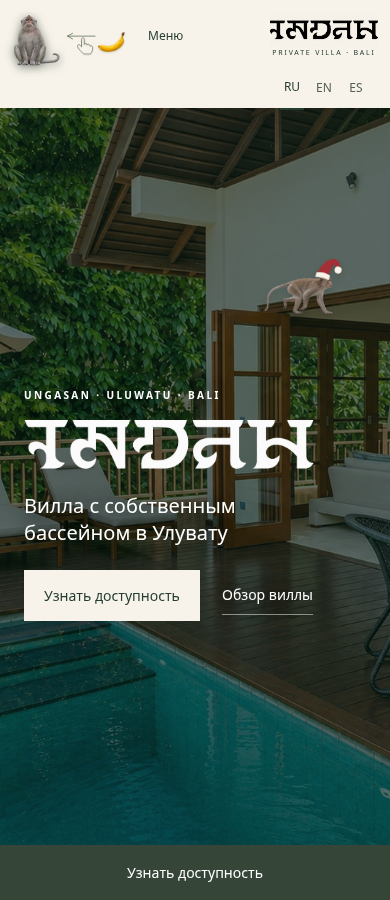
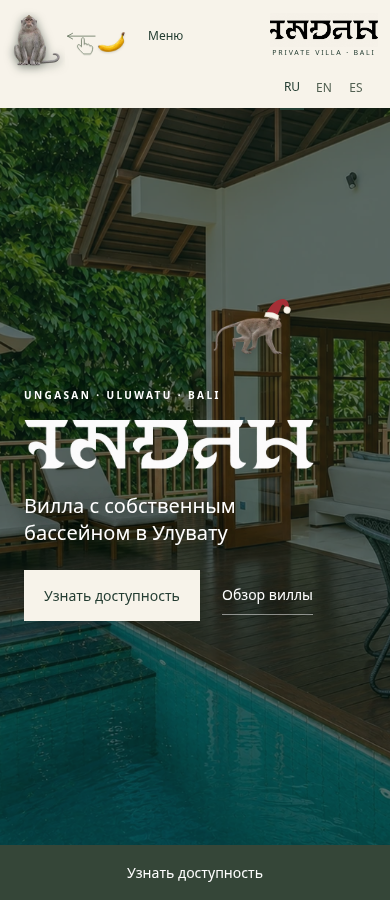
Speed up festive monkey and refine seasonal copy placement

Changed region(s): [[0.5538, 0.28, 0.8923, 0.4044]]

diff --git a/index.html b/index.html
@@ -1,4 +1,4 @@
-<!doctype html><html lang="ru"><head><meta charset="utf-8"><meta name="viewport" content="width=device-width,initial-scale=1"><link rel="canonical" href="https://villa-indah.com/"><meta property="og:url" content="https://villa-indah.com/"><meta property="og:title" content="Private Villa Indah · Bali"><meta property="og:description" content="A private four-bedroom villa in Uluwatu, Bali."><meta property="og:image" content="https://villa-indah.com/assets/photos-new/Private%20Swimming%20Pool/03.webp"><meta http-equiv="Content-Security-Policy" content="default-src 'self'; script-src 'self' https://www.googletagmanager.com; style-src 'self' 'unsafe-inline'; img-src 'self' data: https://www.google-analytics.com https://region1.google-analytics.com; font-src 'self'; frame-src https://maps.google.com https://www.google.com; connect-src 'self' https://formspree.io https://www.google-analytics.com https://region1.google-analytics.com; object-src 'none'; base-uri 'self'; form-action 'none'"><meta name="referrer" content="strict-origin-when-cross-origin"><meta name="theme-color" content="#17382d"><meta name="description" content="Private Villa Indah — приватная вилла с четырьмя спальнями и собственным бассейном в Улувату, Бали."><title>Private Villa Indah · Bali</title><link rel="icon" href="assets/indah-icon.svg" type="image/svg+xml"><link rel="stylesheet" href="style.css?v=24"></head><body><a class="skip-link" href="#main-content" data-i="skipContent">Перейти к содержимому</a>
+<!doctype html><html lang="ru"><head><meta charset="utf-8"><meta name="viewport" content="width=device-width,initial-scale=1"><link rel="canonical" href="https://villa-indah.com/"><meta property="og:url" content="https://villa-indah.com/"><meta property="og:title" content="Private Villa Indah · Bali"><meta property="og:description" content="A private four-bedroom villa in Uluwatu, Bali."><meta property="og:image" content="https://villa-indah.com/assets/photos-new/Private%20Swimming%20Pool/03.webp"><meta http-equiv="Content-Security-Policy" content="default-src 'self'; script-src 'self' https://www.googletagmanager.com; style-src 'self' 'unsafe-inline'; img-src 'self' data: https://www.google-analytics.com https://region1.google-analytics.com; font-src 'self'; frame-src https://maps.google.com https://www.google.com; connect-src 'self' https://formspree.io https://www.google-analytics.com https://region1.google-analytics.com; object-src 'none'; base-uri 'self'; form-action 'none'"><meta name="referrer" content="strict-origin-when-cross-origin"><meta name="theme-color" content="#17382d"><meta name="description" content="Private Villa Indah — приватная вилла с четырьмя спальнями и собственным бассейном в Улувату, Бали."><title>Private Villa Indah · Bali</title><link rel="icon" href="assets/indah-icon.svg" type="image/svg+xml"><link rel="stylesheet" href="style.css?v=25"></head><body><a class="skip-link" href="#main-content" data-i="skipContent">Перейти к содержимому</a>
 <header id="site-header"><button id="menu-toggle" aria-expanded="false" aria-controls="main-nav" data-i="menu">Меню</button><a class="brand" href="#home" aria-label="Indah — home"><span class="brand-mark"><img src="6B720228-7AA6-4556-BAA2-3178FDD9169D.png" width="2172" height="724" alt="Indah"></span><span class="brand-tagline">PRIVATE VILLA · BALI</span></a><nav id="main-nav"><a href="#villa" data-i="navVilla">Вилла</a><a href="#resort" data-i="navResort">Отдых</a><a href="#gallery-section" data-i="navGallery">Галерея</a><a href="#villa-map" data-i="navLocation">Расположение</a></nav><div class="languages" aria-label="Language"><button data-lang="ru" aria-pressed="true">RU</button><button data-lang="en" aria-pressed="false">EN</button><button data-lang="es" aria-pressed="false">ES</button></div><button class="outline booking" data-i="availability">Узнать доступность</button></header>
 <main id="main-content" tabindex="-1"><section class="hero" id="home"><img class="hero-photo" src="assets/photos-new/Private%20Swimming%20Pool/03.webp" width="1448" height="1086" alt="Терраса виллы Indah с бассейном и открытой гостиной" data-alt="altHero" fetchpriority="high"><video id="hero-video" muted loop playsinline hidden poster="assets/photos-new/Private%20Swimming%20Pool/03.webp"></video><button id="video-toggle" hidden></button><button id="monkey-toggle" class="branch-monkey resident-monkey" aria-pressed="false" aria-label="Позвать обезьян"><img src="assets/monkeys/generated/P01-still.png" width="125" height="150" alt="" draggable="false"><span id="monkey-label" hidden></span></button><button id="monkey-banana" type="button" aria-label="Выберите банан, затем нажмите на обезьяну" aria-pressed="false"><img class="banana-fruit" src="assets/banana-realistic.webp" width="160" height="107" alt="" draggable="false"></button><span id="banana-gesture" aria-hidden="true"><svg viewBox="0 0 64 42"><path class="swipe-arrow" d="M57 7H8m9-5-9 5 9 5"/><path class="swipe-hand" d="M30 36c-4-4-7-7-8-10-1-3 2-5 4-3l3 3V13c0-4 5-4 5 0v9c1-3 5-2 5 1 1-3 5-1 5 2 2-2 5 0 5 3 0 5-2 8-4 11H33Z"/></svg></span><span id="monkey-instruction" class="sr-only" role="status"></span><div class="hero-content"><p class="eyebrow">UNGASAN · ULUWATU · BALI</p><h1 class="hero-logo"><img src="assets/indah-logo-white.png" width="2171" height="724" alt="Indah" fetchpriority="high"></h1><p class="hero-sub" data-i="hero">Вилла с собственным бассейном в Улувату</p><div class="hero-actions"><button class="solid hero-cta booking" data-i="availability">Узнать доступность</button><a class="discover" href="#villa"><span data-i="discover">Обзор виллы</span></a></div></div></section>
 <section class="intro" id="villa"><h2 data-i="introTitle">Дом для отдыха с близкими</h2><p class="intro-copy" data-i="intro">Вилла целиком в вашем распоряжении: четыре спальни, гостиная, балкон и терраса у собственного бассейна.</p><div class="facts"><div><strong>4</strong><span data-i="bedrooms">Спальни</span></div><div><strong>8</strong><span data-i="guests">Гостей</span></div><div><strong>4</strong><span data-i="baths">Ванные комнаты</span></div><div><strong>Pool</strong><span data-i="pool">Собственный бассейн</span></div></div></section>
@@ -10,4 +10,4 @@
 
 <section class="faq" id="faq" aria-labelledby="faq-heading"><div class="faq-layout"><div class="faq-intro"><p class="eyebrow" data-i="faqEyebrow">ПЕРЕД ПОЕЗДКОЙ</p><h2 id="faq-heading" data-i="faqTitle">Частые вопросы</h2><p data-i="faqDescription">О вилле, услугах курорта и условиях бронирования.</p></div><div class="faq-content"><div id="faq-entries"><section class="faq-group" aria-labelledby="faq-group-villa"><h3 id="faq-group-villa">Вилла</h3><details name="villa-faq"><summary>Villa Indah — отдельная вилла или часть отеля?</summary><p>Villa Indah — отдельная вилла на территории курорта Karma Kandara. Вы проживаете в собственном доме с бассейном и имеете доступ к общим зонам курорта.</p></details><details name="villa-faq"><summary>Есть ли Wi-Fi для удалённой работы?</summary><p>На вилле есть Wi-Fi.</p></details><details name="villa-faq"><summary>У виллы есть собственный бассейн?</summary><p>Да, бассейн виллы предназначен только для проживающих в ней гостей. Бассейн курорта Karma Kandara — отдельный общий объект.</p></details></section><section class="faq-group" aria-labelledby="faq-group-resort"><h3 id="faq-group-resort">Курорт и пляж</h3><details name="villa-faq"><summary>Включён ли доступ к пляжу?</summary><p>Доступ к пляжу входит в условия проживания. Еда, напитки и отдельные услуги пляжного клуба оплачиваются дополнительно.</p></details><details name="villa-faq"><summary>Как спуститься к Karma Beach?</summary><p>Пляж расположен у подножия утёса. Порядок спуска организует курорт: лифт или лестница. Маршрут может меняться из-за эксплуатационных или погодных условий.</p></details><details name="villa-faq"><summary>Включены ли рестораны и спа в проживание?</summary><p>Рестораны, напитки, спа-процедуры и другие дополнительные услуги оплачиваются отдельно.</p></details></section><section class="faq-group" aria-labelledby="faq-group-stay"><h3 id="faq-group-stay">Услуги и заезд</h3><details name="villa-faq"><summary>Включены ли уборка и смена белья?</summary><p>В стоимость проживания включена ежедневная уборка виллы.</p></details><details name="villa-faq"><summary>Можно ли заказать завтрак?</summary><p>Завтрак можно заказать из ресторана за дополнительную стоимость.</p></details><details name="villa-faq"><summary>Можно ли заказать трансфер из аэропорта?</summary><p>Трансфер из/в аэропорт можно заказать за дополнительную стоимость. Заранее согласуйте доступность, стоимость, место встречи и количество пассажиров. Детали рейса потребуются при оформлении поездки.</p></details></section><section class="faq-group" aria-labelledby="faq-group-booking"><h3 id="faq-group-booking">Бронирование и оплата</h3><details name="villa-faq"><summary>Как узнать доступность и забронировать виллу?</summary><p>Заполните форму или напишите по email в разделе «Контакты»: укажите даты поездки и количество гостей. Доступность, стоимость и условия согласуются в переписке. Проживание подтверждается ваучером отеля; запрос сам по себе не является бронированием.</p></details><details name="villa-faq"><summary>Нужна ли предоплата и как оплатить проживание?</summary><p>Для подтверждения бронирования требуется полная оплата стоимости проживания — 100%. Порядок оплаты и реквизиты направляются в письменном подтверждении.</p></details></section></div><span class="faq-expand-perch" id="faq-expand-perch"><button type="button" class="outline-dark" id="faq-expand" aria-controls="faq-entries" aria-expanded="false" hidden data-i="faqAll">Все 11 вопросов</button></span><div class="faq-contact"><h3 data-i="faqOtherTitle">Остались вопросы?</h3><p data-i="faqOtherCopy">Напишите нам, чтобы уточнить условия и доступность на ваши даты.</p><div class="faq-actions"><button type="button" class="solid booking" data-i="availability">Узнать доступность</button><a class="text-link" href="#enquiry" data-i="faqContact">Перейти к контактам</a></div></div></div></div></section>
 <section class="contact" id="enquiry"><p class="eyebrow">PRIVATE VILLA INDAH</p><h2 data-i="contactTitle">Планируете поездку?</h2><p data-i="confirmPersonally">Сообщите даты и состав компании. Мы уточним доступность виллы и условия проживания.</p><form class="perch-object" id="enquiry-form" novalidate><input class="form-honeypot" name="_gotcha" tabindex="-1" autocomplete="off" aria-hidden="true"><div class="form-grid"><label><span data-i="nameLabel">Имя</span><input name="name" autocomplete="name" required aria-describedby="form-error"></label><label><span>Email</span><input type="email" name="email" autocomplete="email" required aria-describedby="form-error"></label><div class="phone-field"><label for="guest-phone"><span data-i="phoneLabel">Телефон с кодом страны</span></label><span class="phone-controls"><select id="phone-country" autocomplete="off" aria-label="Код страны"></select><input id="guest-phone" type="tel" name="phone" autocomplete="tel-national" inputmode="tel" placeholder="812 3456 789" aria-describedby="phone-help form-error"></span><small id="phone-help" data-i="phoneHelp">Номер без кода страны или полный номер с +.</small></div><label><span data-i="checkin">Заезд</span><input type="date" name="checkin" required aria-describedby="form-error"></label><label><span data-i="checkout">Выезд</span><input type="date" name="checkout" required aria-describedby="form-error"></label><label><span data-i="adults">Взрослые</span><input type="number" name="adults" value="2" min="1" max="8" required aria-describedby="form-error"></label><label><span data-i="children">Дети</span><input type="number" name="children" value="0" min="0" max="7" required aria-describedby="form-error"></label></div><label class="note-label"><span data-i="message">Пожелания (необязательно)</span><textarea name="message" rows="3" maxlength="2000"></textarea></label><p class="data-note" data-i="dataMinimisation">Укажите только данные взрослого заявителя. Не присылайте имена детей, документы и платёжные данные.</p><label class="consent-label"><input type="checkbox" name="privacyConsent" value="yes" required><span data-i="privacyConsent">Я согласен(на) на обработку указанных данных для ответа на заявку.</span></label><button type="button" class="policy-link" data-policy="privacy" data-i="privacyTitle">Защита данных</button><p id="form-error" role="alert"></p><p id="form-status" role="status"></p><div class="contact-actions"><button id="enquiry-submit" class="solid" type="submit" data-i="sendEnquiry">Отправить заявку</button><a class="outline-dark telegram-action" id="telegram-action" href="https://t.me/VillaIndah_bali" target="_blank" rel="noopener noreferrer"><svg viewBox="0 0 24 24" aria-hidden="true"><path fill="currentColor" d="M21.4 3.2 2.9 10.4c-1.3.5-1.3 1.2-.2 1.5l4.7 1.5 1.8 5.5c.2.6.1.9.8.9.5 0 .8-.2 1-.5l2.3-2.3 4.7 3.5c.9.5 1.5.2 1.7-.8l3-14.5c.3-1.3-.5-1.9-1.3-1.5ZM9.2 13l9.2-5.8c.4-.3.8-.1.5.2l-7.6 6.9-.3 3.3-1.8-4.6Z"/></svg><span data-i="telegramAction">Написать в Telegram</span></a></div><p class="small" id="form-config-note" data-i="formPending">Онлайн-заявка скоро появится. Пока свяжитесь с нами по email ниже.</p><p class="small" data-i="privacySummary">Запрос не подтверждает бронирование.</p><div class="direct-contact"><h3 data-i="contactLabel">Контакты</h3><a class="email" href="mailto:villaindah.valeriia@gmail.com">villaindah.valeriia@gmail.com</a></div></form></section><section id="villa-map" class="map-section"><h2 data-i="mapHeading">Найти виллу</h2><div class="perch-object" id="map-container"><div class="map-placeholder"><p data-i="mapConsentCopy">Google получит данные о подключении при загрузке карты. Вы можете открыть маршрут по ссылке или разрешить карту здесь.</p><button type="button" class="solid" id="enable-map" data-i="enableMap">Разрешить Google Maps</button></div></div><p class="map-help" data-i="mapHelp">Если карта не отображается, откройте маршрут в Google Maps по кнопке ниже.</p><a id="map-directions" class="outline-dark" target="_blank" rel="noopener noreferrer" hidden data-i="mapRoute">Открыть в Google Maps</a><p id="map-pending" data-i="mapPending">Точную метку виллы добавим после подтверждения местоположения.</p></section></main>
-<footer><div class="footer-location"><p class="hotel-note" data-i="hotelNote">Вилла расположена на территории отеля Karma Kandara.</p><address data-i="villaAddress">Jl. Villa Kandara Banjar Wijaya Kusuma Ungasan Benoa Kuta Sel. Banjar Wijaya Kusuma, Ungasan, Kec. Kuta Sel., Kabupaten Badung, Bali 80362, Индонезия</address></div><a class="brand" href="#home" aria-label="Indah — home"><span class="brand-mark"><img src="6B720228-7AA6-4556-BAA2-3178FDD9169D.png" width="2172" height="724" alt="Indah"></span><span class="brand-tagline">PRIVATE VILLA · BALI</span></a><p>Ungasan · Uluwatu · Bali</p><p>© <span id="year"></span> Private Villa Indah</p><div class="legal-links"><a href="#faq" data-i="faqNav">Вопросы</a><button data-policy="privacy" data-i="privacyTitle">Защита данных</button><button data-policy="terms" data-i="termsTitle">Условия и возвраты</button><button data-policy="cookies" data-i="cookiesTitle">Cookies</button><button id="privacy-settings" data-i="privacySettings">Настройки приватности</button></div></footer><aside id="cookie-banner" aria-labelledby="cookie-title"><h2 id="cookie-title" data-i="cookiesTitle">Cookies и приватность</h2><p data-i="cookieNotice">Вы можете разрешить или отклонить аналитику посещений. Google-карта включается отдельно. Отказ не мешает отправить заявку или связаться с нами.</p><div class="cookie-actions"><button id="accept-analytics" data-i="acceptAnalytics">Принять аналитику</button><button id="reject-analytics" data-i="rejectAnalytics">Отклонить аналитику</button><button id="banner-privacy-settings" data-i="privacySettings">Изменить настройки</button></div></aside><dialog id="policy-dialog" aria-labelledby="policy-title"><button id="policy-close" type="button" aria-label="Закрыть">×</button><h2 id="policy-title"></h2><div id="policy-body"></div></dialog><div id="monkey" aria-hidden="true" hidden></div><a class="mobile-availability" href="#enquiry" data-i="availability">Узнать доступность</a><dialog id="lightbox" aria-labelledby="lightbox-caption"><button id="lightbox-close" aria-label="Close">×</button><button id="lightbox-prev" aria-label="Previous photograph">←</button><figure><img id="lightbox-image" alt=""><figcaption id="lightbox-caption"></figcaption></figure><button id="lightbox-next" aria-label="Next photograph">→</button><p id="lightbox-counter" aria-live="polite"></p></dialog><noscript><p class="no-js">Для галереи и формы включите JavaScript.</p></noscript><script src="content.js?v=22"></script><script src="monkeys.js?v=23"></script><script src="analytics.js?v=1"></script><script src="privacy.js?v=18"></script><script src="faq-content.js?v=4"></script><script src="phone-countries.js?v=1"></script><script src="app.js?v=21"></script><script src="seasonal-offer.js?v=1"></script></body></html>
+<footer><div class="footer-location"><p class="hotel-note" data-i="hotelNote">Вилла расположена на территории отеля Karma Kandara.</p><address data-i="villaAddress">Jl. Villa Kandara Banjar Wijaya Kusuma Ungasan Benoa Kuta Sel. Banjar Wijaya Kusuma, Ungasan, Kec. Kuta Sel., Kabupaten Badung, Bali 80362, Индонезия</address></div><a class="brand" href="#home" aria-label="Indah — home"><span class="brand-mark"><img src="6B720228-7AA6-4556-BAA2-3178FDD9169D.png" width="2172" height="724" alt="Indah"></span><span class="brand-tagline">PRIVATE VILLA · BALI</span></a><p>Ungasan · Uluwatu · Bali</p><p>© <span id="year"></span> Private Villa Indah</p><div class="legal-links"><a href="#faq" data-i="faqNav">Вопросы</a><button data-policy="privacy" data-i="privacyTitle">Защита данных</button><button data-policy="terms" data-i="termsTitle">Условия и возвраты</button><button data-policy="cookies" data-i="cookiesTitle">Cookies</button><button id="privacy-settings" data-i="privacySettings">Настройки приватности</button></div></footer><aside id="cookie-banner" aria-labelledby="cookie-title"><h2 id="cookie-title" data-i="cookiesTitle">Cookies и приватность</h2><p data-i="cookieNotice">Вы можете разрешить или отклонить аналитику посещений. Google-карта включается отдельно. Отказ не мешает отправить заявку или связаться с нами.</p><div class="cookie-actions"><button id="accept-analytics" data-i="acceptAnalytics">Принять аналитику</button><button id="reject-analytics" data-i="rejectAnalytics">Отклонить аналитику</button><button id="banner-privacy-settings" data-i="privacySettings">Изменить настройки</button></div></aside><dialog id="policy-dialog" aria-labelledby="policy-title"><button id="policy-close" type="button" aria-label="Закрыть">×</button><h2 id="policy-title"></h2><div id="policy-body"></div></dialog><div id="monkey" aria-hidden="true" hidden></div><a class="mobile-availability" href="#enquiry" data-i="availability">Узнать доступность</a><dialog id="lightbox" aria-labelledby="lightbox-caption"><button id="lightbox-close" aria-label="Close">×</button><button id="lightbox-prev" aria-label="Previous photograph">←</button><figure><img id="lightbox-image" alt=""><figcaption id="lightbox-caption"></figcaption></figure><button id="lightbox-next" aria-label="Next photograph">→</button><p id="lightbox-counter" aria-live="polite"></p></dialog><noscript><p class="no-js">Для галереи и формы включите JavaScript.</p></noscript><script src="content.js?v=22"></script><script src="monkeys.js?v=23"></script><script src="analytics.js?v=1"></script><script src="privacy.js?v=18"></script><script src="faq-content.js?v=4"></script><script src="phone-countries.js?v=1"></script><script src="app.js?v=21"></script><script src="seasonal-offer.js?v=2"></script></body></html>

diff --git a/seasonal-offer.js b/seasonal-offer.js
@@ -1,26 +1,26 @@
 /* Seasonal game: no tracking, storage of personal data or automatic form submission. */
 (()=>{
  const words={
- ru:{eyebrow:'НОВЫЙ ГОД · INDAH',title:'Поймайте удачу на Бали',intro:'Наша новогодняя гостья приготовила предложение для тех, кто хочет остаться подольше. Поймайте макаку в праздничной шапке — и откройте скидку на месячный тариф.',terms:'Для проживания от 30 ночей в период с 1 декабря 2026 по 30 января 2027 года. Размер скидки сообщим в ответ на заявку о доступности. Наличие мест и итоговые условия подтверждаются в переписке.',start:'Поймать обезьяну',later:'Не сейчас',catch:'Поймать новогоднюю обезьяну',won:'Вот и поймали!',winCopy:'Теперь отправьте запрос на доступность и укажите в пожеланиях «поймал/а обезьяну». Мы проверим ваши даты и сообщим размер скидки на месячный тариф.',cta:'Узнать доступность',pause:'Приостановить игру',resume:'Продолжить игру',strip:'Месяц на Бали — с новогодним предложением',stripCopy:'Проживание от 30 ночей · 01.12.2026–30.01.2027',open:'Открыть предложение',close:'Закрыть',wildTitle:'Соседи из джунглей',wildCopy:'На территорию виллы иногда заглядывают макаки — часть жизни среди тропической зелени. Наблюдайте за ними на расстоянии: не кормите животных, не оставляйте еду на террасе и закрывайте двери.',beach:'Курорт Karma Kandara расположен над одним из самых живописных пляжей Бали: светлый песок, прозрачная вода и утёсы полуострова Букит. Порядок спуска к пляжу организует курорт.'},
- en:{eyebrow:'NEW YEAR · INDAH',title:'Catch a little Bali luck',intro:'Our festive visitor has an offer for guests who want to stay longer. Catch the macaque in a Santa hat to unlock a discount on the monthly rate.',terms:'For stays of at least 30 nights between 1 December 2026 and 30 January 2027. We will share the discount in our reply to your availability enquiry. Availability and final terms are confirmed by correspondence.',start:'Catch the monkey',later:'Not now',catch:'Catch the festive monkey',won:'You caught her!',winCopy:'Send an availability enquiry and include “поймал/а обезьяну” in your message. We will check your dates and share the discount on the monthly rate.',cta:'Check availability',pause:'Pause the game',resume:'Resume the game',strip:'A month in Bali, with a New Year offer',stripCopy:'Stays of 30 nights or more · 01.12.2026–30.01.2027',open:'View the offer',close:'Close',wildTitle:'Visitors from the jungle',wildCopy:'Macaques sometimes visit the villa grounds — part of life amid tropical greenery. Watch from a distance, do not feed them, keep food off the terrace and close the doors.',beach:'Karma Kandara overlooks one of Bali’s most scenic beaches, with pale sand, clear water and the cliffs of the Bukit Peninsula. The resort manages access down to the beach.'},
- es:{eyebrow:'AÑO NUEVO · INDAH',title:'Atrapa un poco de suerte en Bali',intro:'Nuestra visitante navideña trae una propuesta para quienes quieren quedarse más tiempo. Atrapa a la macaca con gorro de Navidad para descubrir un descuento en la tarifa mensual.',terms:'Para estancias de al menos 30 noches entre el 1 de diciembre de 2026 y el 30 de enero de 2027. Te comunicaremos el descuento al responder a tu consulta de disponibilidad. La disponibilidad y las condiciones finales se confirman por correspondencia.',start:'Atrapar a la macaca',later:'Ahora no',catch:'Atrapar a la macaca navideña',won:'¡La has atrapado!',winCopy:'Envía una consulta de disponibilidad e incluye «поймал/а обезьяну» en tu mensaje. Comprobaremos tus fechas y te comunicaremos el descuento en la tarifa mensual.',cta:'Consultar disponibilidad',pause:'Pausar el juego',resume:'Continuar el juego',strip:'Un mes en Bali con una oferta de Año Nuevo',stripCopy:'Estancias de 30 noches o más · 01.12.2026–30.01.2027',open:'Ver la oferta',close:'Cerrar',wildTitle:'Visitas de la selva',wildCopy:'A veces los macacos visitan los jardines de la villa: forman parte de la vida entre la vegetación tropical. Obsérvalos a distancia, no los alimentes, no dejes comida en la terraza y mantén las puertas cerradas.',beach:'Karma Kandara se asoma a una de las playas más pintorescas de Bali, con arena clara, agua transparente y los acantilados de la península de Bukit. El resort organiza el acceso a la playa.'}
+ ru:{eyebrow:'НОВЫЙ ГОД · INDAH',title:'Поймайте удачу на Бали',intro:'Поймайте обезьянку в праздничной шапке — и откройте скидку на месячный тариф.',terms:'Для проживания от 30 ночей в период с 1 декабря 2026 по 30 января 2027 года.',start:'Поймать обезьяну',later:'Не сейчас',catch:'Поймать новогоднюю обезьяну',won:'Вот и поймали!',winCopy:'Теперь отправьте запрос на доступность и укажите в пожеланиях «поймал/а обезьяну». Мы проверим ваши даты и сообщим размер скидки на месячный тариф.',cta:'Узнать доступность',pause:'Приостановить игру',resume:'Продолжить игру',strip:'Месяц на Бали — с новогодним предложением',stripCopy:'Проживание от 30 ночей · 01.12.2026–30.01.2027',open:'Открыть предложение',close:'Закрыть',wildTitle:'Соседи из джунглей',wildCopy:'На территорию виллы иногда заглядывают обезьяны — часть жизни среди тропической зелени. Наблюдайте за ними на расстоянии: не кормите животных, не оставляйте еду на террасе и закрывайте двери.',beach:'Курорт Karma Kandara расположен над одним из самых живописных пляжей Бали: светлый песок, прозрачная вода и утёсы полуострова Букит. Порядок спуска к пляжу организует курорт.'},
+ en:{eyebrow:'NEW YEAR · INDAH',title:'Catch a little Bali luck',intro:'Catch the monkey in a Santa hat to unlock a discount on the monthly rate.',terms:'For stays of at least 30 nights between 1 December 2026 and 30 January 2027.',start:'Catch the monkey',later:'Not now',catch:'Catch the festive monkey',won:'You caught her!',winCopy:'Send an availability enquiry and include “поймал/а обезьяну” in your message. We will check your dates and share the discount on the monthly rate.',cta:'Check availability',pause:'Pause the game',resume:'Resume the game',strip:'A month in Bali, with a New Year offer',stripCopy:'Stays of 30 nights or more · 01.12.2026–30.01.2027',open:'View the offer',close:'Close',wildTitle:'Visitors from the jungle',wildCopy:'Monkeys sometimes visit the villa grounds — part of life amid tropical greenery. Watch from a distance, do not feed them, keep food off the terrace and close the doors.',beach:'Karma Kandara overlooks one of Bali’s most scenic beaches, with pale sand, clear water and the cliffs of the Bukit Peninsula. The resort manages access down to the beach.'},
+ es:{eyebrow:'AÑO NUEVO · INDAH',title:'Atrapa un poco de suerte en Bali',intro:'Atrapa al monito con gorro de Navidad para descubrir un descuento en la tarifa mensual.',terms:'Para estancias de al menos 30 noches entre el 1 de diciembre de 2026 y el 30 de enero de 2027.',start:'Atrapar a la macaca',later:'Ahora no',catch:'Atrapar a la macaca navideña',won:'¡La has atrapado!',winCopy:'Envía una consulta de disponibilidad e incluye «поймал/а обезьяну» en tu mensaje. Comprobaremos tus fechas y te comunicaremos el descuento en la tarifa mensual.',cta:'Consultar disponibilidad',pause:'Pausar el juego',resume:'Continuar el juego',strip:'Un mes en Bali con una oferta de Año Nuevo',stripCopy:'Estancias de 30 noches o más · 01.12.2026–30.01.2027',open:'Ver la oferta',close:'Cerrar',wildTitle:'Visitas de la selva',wildCopy:'A veces los monos visitan los jardines de la villa: forman parte de la vida entre la vegetación tropical. Obsérvalos a distancia, no los alimentes, no dejes comida en la terraza y mantén las puertas cerradas.',beach:'Karma Kandara se asoma a una de las playas más pintorescas de Bali, con arena clara, agua transparente y los acantilados de la península de Bukit. El resort organiza el acceso a la playa.'}
  };
  const text=()=>words[document.documentElement.lang]||words.ru;
  const strip=document.createElement('aside');strip.className='seasonal-strip';strip.innerHTML='<div><p class="eyebrow" data-season="eyebrow"></p><h3 data-season="strip"></h3><p data-season="stripCopy"></p></div><div><button type="button" class="outline-dark" id="season-open" data-season="open"></button><button type="button" class="season-pause" hidden></button></div>';
  document.querySelector('#villa').after(strip);
- const wild=document.createElement('aside');wild.className='wildlife-note';wild.innerHTML='<h3 data-season="wildTitle"></h3><p data-season="wildCopy"></p>';document.querySelector('.story-text').append(wild);
+ const wild=document.createElement('p');wild.className='wildlife-note';wild.dataset.season='wildCopy';document.querySelector('.story-text [data-i=story]').after(wild);
  const beach=document.createElement('p');beach.dataset.season='beach';document.querySelector('#beach-perch').parentElement.append(beach);
  const dialog=document.createElement('dialog');dialog.id='season-dialog';dialog.setAttribute('aria-labelledby','season-title');dialog.innerHTML='<button class="season-close" type="button">×</button><div class="season-star" aria-hidden="true">✧</div><p class="eyebrow" data-season="eyebrow"></p><h2 id="season-title"></h2><p id="season-copy"></p><p class="season-terms" data-season="terms"></p><button class="solid" id="season-action" type="button"></button><button class="season-later" type="button" data-season="later"></button>';document.body.append(dialog);
  const actor=document.createElement('button');actor.type='button';actor.id='festive-monkey';actor.hidden=true;actor.innerHTML='<img src="assets/monkeys/new/F1-still.png" alt="" draggable="false"><svg class="santa-hat" viewBox="0 0 60 54" aria-hidden="true"><path fill="#a52f36" d="M8 40C14 21 24 8 37 5c9-2 16 6 16 18l-8 2c-1-7-3-10-7-8L31 43Z"/><path fill="#f7f3ea" stroke="#ddd4bf" d="M7 38q14-5 28 2l-1 9Q19 44 6 47Z"/><circle cx="50" cy="26" r="7" fill="#f7f3ea" stroke="#ddd4bf"/></svg>';document.body.append(actor);
  const pause=strip.querySelector('.season-pause'),motion=matchMedia('(prefers-reduced-motion: reduce)');let running=false,paused=false,caught=false,timer=0,returnFocus=null;
  function render(){const t=text();document.querySelectorAll('[data-season]').forEach(e=>e.textContent=t[e.dataset.season]);dialog.querySelector('#season-title').textContent=caught?t.won:t.title;dialog.querySelector('#season-copy').textContent=caught?t.winCopy:t.intro;dialog.querySelector('#season-action').textContent=caught?t.cta:t.start;dialog.querySelector('.season-close').setAttribute('aria-label',t.close);dialog.querySelector('.season-later').hidden=caught;actor.setAttribute('aria-label',t.catch);pause.textContent=paused?t.resume:t.pause;actor.querySelector('img').src='assets/monkeys/new/F1'+(running&&!paused&&!motion.matches?'.webp':'-still.png')}
  function stop(){clearTimeout(timer);timer=0}
- function move(){stop();if(!running||paused||actor.hidden||document.hidden||document.activeElement===actor)return;if(document.querySelector('dialog[open]')){timer=setTimeout(move,1000);return}actor.style.transition='';const w=innerWidth,h=innerHeight;actor.style.left=Math.round(12+Math.random()*Math.max(0,w-120))+'px';actor.style.top=Math.round(130+Math.random()*Math.max(0,h-330))+'px';if(!motion.matches)timer=setTimeout(move,2200)}
+ function move(){stop();if(!running||paused||actor.hidden||document.hidden||document.activeElement===actor)return;if(document.querySelector('dialog[open]')){timer=setTimeout(move,1000);return}actor.style.transition='';const w=innerWidth,h=innerHeight;actor.style.left=Math.round(12+Math.random()*Math.max(0,w-120))+'px';actor.style.top=Math.round(130+Math.random()*Math.max(0,h-330))+'px';if(!motion.matches)timer=setTimeout(move,1467)}
  function open(){returnFocus=document.activeElement;stop();actor.hidden=true;render();dialog.showModal()}
  function close(){dialog.close();actor.hidden=!running||caught;returnFocus?.focus({preventScroll:true});move()}
  strip.querySelector('#season-open').onclick=open;dialog.querySelector('.season-close').onclick=close;dialog.querySelector('.season-later').onclick=close;dialog.addEventListener('cancel',e=>{e.preventDefault();close()});
  dialog.querySelector('#season-action').onclick=e=>{if(caught){close();const message=document.querySelector('[name=message]');if(!message.value.includes('поймал/а обезьяну'))message.value+=(message.value?'\n':'')+'поймал/а обезьяну';document.querySelector('#enquiry').scrollIntoView({behavior:motion.matches?'instant':'smooth'});message.focus({preventScroll:true})}else{running=true;paused=false;pause.hidden=false;close();render();if(e.detail===0)actor.focus({preventScroll:true});}};
- actor.onclick=()=>{caught=true;running=false;pause.hidden=true;stop();open()};actor.onpointerdown=()=>{stop();const b=actor.getBoundingClientRect();actor.style.transition='none';actor.style.left=b.left+'px';actor.style.top=b.top+'px'};actor.onpointerleave=()=>{if(running&&!paused&&!motion.matches)timer=setTimeout(move,900)};actor.onfocus=stop;actor.onblur=()=>{if(running)move()};
+ actor.onclick=()=>{caught=true;running=false;pause.hidden=true;stop();open()};actor.onpointerdown=()=>{stop();const b=actor.getBoundingClientRect();actor.style.transition='none';actor.style.left=b.left+'px';actor.style.top=b.top+'px'};actor.onpointerleave=()=>{if(running&&!paused&&!motion.matches)timer=setTimeout(move,600)};actor.onfocus=stop;actor.onblur=()=>{if(running)move()};
  pause.onclick=()=>{paused=!paused;stop();render();if(!paused)move()};
  document.addEventListener('visibilitychange',()=>{stop();if(!document.hidden)move()});motion.addEventListener('change',()=>{stop();render();move()});
  new MutationObserver(render).observe(document.documentElement,{attributes:true,attributeFilter:['lang']});

diff --git a/style.css b/style.css
@@ -502,9 +502,9 @@ body.monkeys-active .contact-actions{position:relative;margin-top:80px}
 @media(prefers-reduced-motion:reduce){#banana-gesture .swipe-hand{animation:none}}
 body.monkeys-active .monkey-perch-host>.macaque.resident{object-fit:contain;aspect-ratio:1}
 /* Seasonal invitation: ivory, forest green and restrained gold. */
-.seasonal-strip{max-width:1210px;margin:0 auto 72px;padding:28px 32px;border:1px solid #b5a07180;display:flex;align-items:center;justify-content:space-between;gap:24px;background:#f2eee3}.seasonal-strip h3{margin:8px 0;font-size:25px}.seasonal-strip p{margin:4px 0}.seasonal-strip .outline-dark{white-space:normal}.season-pause{display:block;margin-top:12px;border:0;background:none;text-decoration:underline;color:var(--ink)}.wildlife-note{margin-top:32px;padding-top:20px;border-top:1px solid #b5a07170}.wildlife-note h3{font-size:22px;margin:0 0 10px}.wildlife-note p{font-size:15px}
+.seasonal-strip{max-width:1210px;margin:0 auto 72px;padding:28px 32px;border:1px solid #b5a07180;display:flex;align-items:center;justify-content:space-between;gap:24px;background:#f2eee3}.seasonal-strip h3{margin:8px 0;font-size:25px}.seasonal-strip p{margin:4px 0}.seasonal-strip .outline-dark{white-space:normal}.season-pause{display:block;margin-top:12px;border:0;background:none;text-decoration:underline;color:var(--ink)}.story-text .wildlife-note{margin-top:18px}
 #season-dialog{width:min(580px,calc(100% - 32px));max-width:580px;max-height:calc(100svh - 32px);overflow:auto;padding:48px;text-align:center;border:1px solid #b5a071;background:radial-gradient(ellipse at top,#ede7d8,var(--paper) 65%);box-shadow:0 24px 100px #071c1655;border-radius:4px}#season-dialog::backdrop{background:#0d2c24b8;backdrop-filter:blur(7px)}#season-dialog h2{font-size:clamp(30px,5vw,43px);line-height:1.12;margin:20px 0}#season-dialog p{line-height:1.65}#season-dialog .season-terms{font-size:13px;color:#4f5c50;border-top:1px solid #b5a07160;padding-top:20px;margin-top:24px}.season-star{font-size:46px;color:#8a713f;line-height:1}.season-close{position:absolute;right:16px;top:10px;width:40px;height:40px;border:0;background:none;color:var(--ink);font-size:28px}.season-later{display:block;margin:18px auto 0;padding:8px;border:0;background:none;color:var(--ink)}#season-dialog .solid{min-height:48px;white-space:normal}
-#festive-monkey{position:fixed;z-index:24;width:100px;height:88px;left:calc(100% - 120px);top:170px;padding:0;border:0;background:none;cursor:grab;transition:left 1.5s ease-in-out,top 1.5s ease-in-out;touch-action:manipulation;filter:drop-shadow(0 3px 3px #0002)}#festive-monkey img{width:100%;height:100%;object-fit:contain;pointer-events:none}#festive-monkey .santa-hat{position:absolute;right:2px;top:3px;width:32px;height:30px;transform:rotate(9deg);pointer-events:none}#festive-monkey:focus-visible{outline:2px solid var(--gold);outline-offset:5px}body:has(dialog[open]) #festive-monkey{visibility:hidden}
+#festive-monkey{position:fixed;z-index:24;width:100px;height:88px;left:calc(100% - 120px);top:170px;padding:0;border:0;background:none;cursor:grab;transition:left 1s ease-in-out,top 1s ease-in-out;touch-action:manipulation;filter:drop-shadow(0 3px 3px #0002)}#festive-monkey img{width:100%;height:100%;object-fit:contain;pointer-events:none}#festive-monkey .santa-hat{position:absolute;right:2px;top:3px;width:32px;height:30px;transform:rotate(9deg);pointer-events:none}#festive-monkey:focus-visible{outline:2px solid var(--gold);outline-offset:5px}body:has(dialog[open]) #festive-monkey{visibility:hidden}
 @media(max-width:700px){.seasonal-strip{margin:0 6% 44px;display:block;padding:24px}.seasonal-strip h3{font-size:23px}.seasonal-strip .outline-dark{margin-top:18px}#season-dialog{padding:36px 24px}#festive-monkey{width:88px;height:80px}#festive-monkey .santa-hat{width:29px;height:28px;right:1px}.wildlife-note{margin-bottom:20px}}
 @media(prefers-reduced-motion:reduce){#festive-monkey{transition:none}}
 body:has(#enquiry-form:focus-within) #festive-monkey,body:has(#main-nav.open) #festive-monkey{visibility:hidden}

diff --git a/review/seasonal-release.md b/review/seasonal-release.md
@@ -7,3 +7,5 @@ Invitation appears once per tab session, after the privacy banner is dismissed. 
 Added RU/EN/ES wildlife guidance and a subjective description of the resort beach without inventing a ranking or sightings guarantee. The festive hat is a lightweight SVG overlay on an existing owner-provided animation.
 
 Browser checks cover desktop/mobile invitation, catch, message preservation, language changes, keyboard, reduced motion and overflow. Existing form/analytics/gallery integration suite also run with the introductory offer marked seen. No live enquiry sent and no discount delivery claimed.
+
+Owner refinement: travel speed increased by 50% (1.5 s to 1 s); route interval reduced proportionally (2200 to 1467 ms). Accessible capture and reduced-motion alternatives preserved. Intro copy shortened to the owner's wording in RU with EN/ES equivalents. Wildlife guidance is now an ordinary paragraph immediately after the day-at-the-villa paragraph, with no separate heading or decorative divider. Desktop/mobile seasonal checks passed again.
